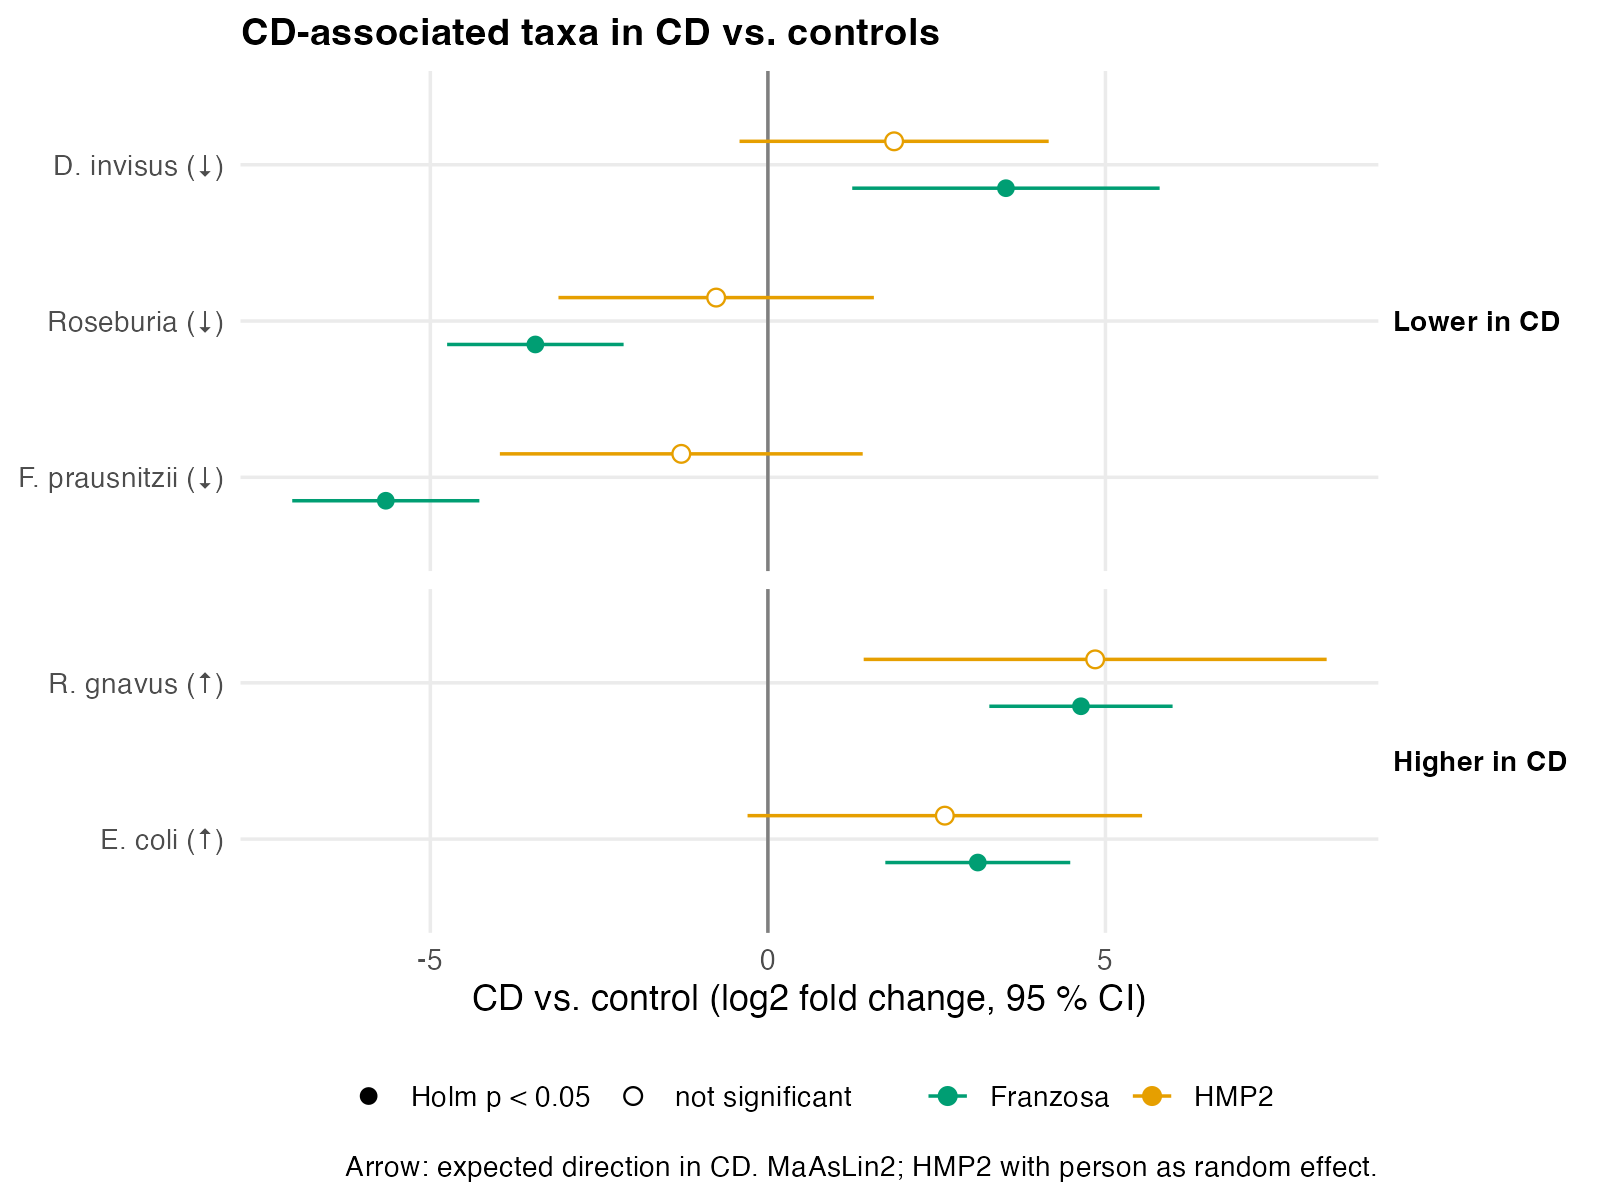
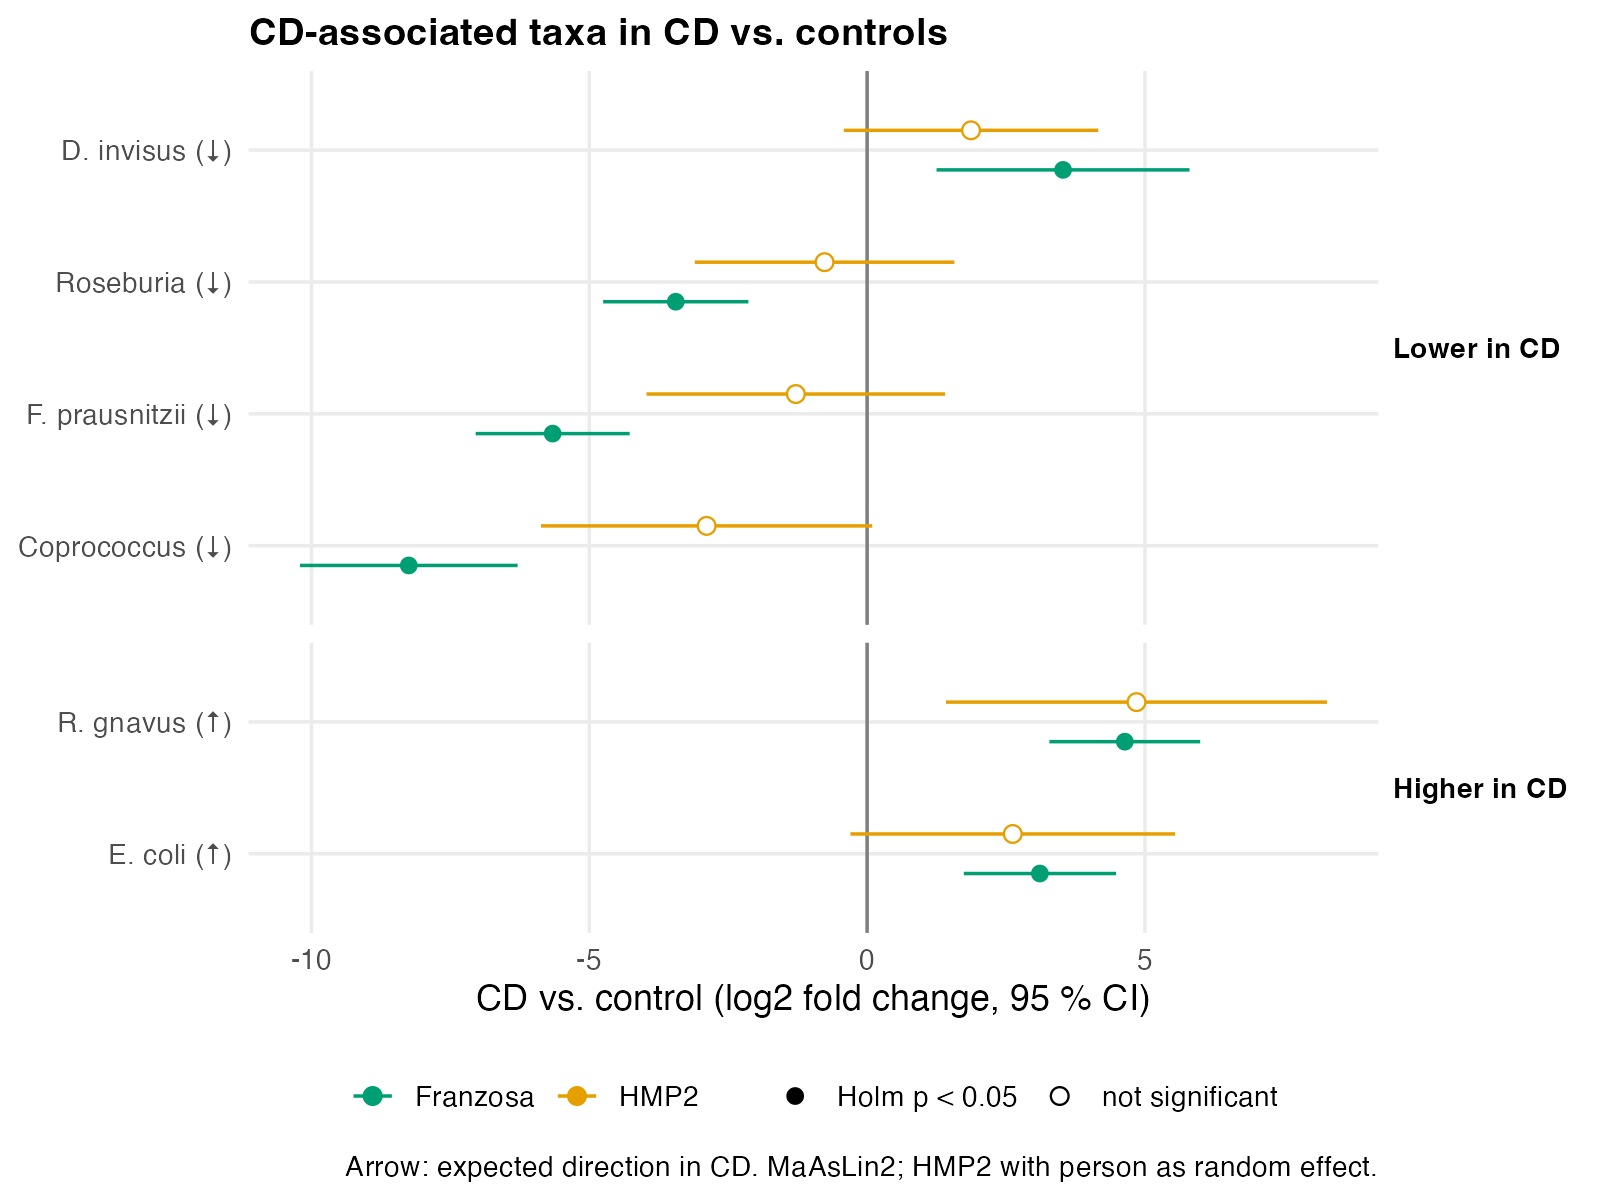
Update taxa list and literature

diff --git a/docs/methods.md b/docs/methods.md
@@ -485,10 +485,10 @@ As of 2026-10-28, genus level, main analysis (10 % prevalence filter).
 
 ### 11.7 Plant/animal taxa ratio (David 2014)
 - **Rule:** second H2a measure: log10 [(Roseburia + E. rectale + R. bromii) / (Alistipes + Bilophila + Bacteroides)] on all samples; Roseburia, Alistipes, Bilophila and Bacteroides as genus. Zeros replaced as for the MD-index (10.3), sensitivity with a value 10 times smaller. Tests as in 1.11; without antibiotics in Franzosa only (7.6).
-- **Why:** Prevotella/Bacteroides can only be tested as ratio in samples with both taxa (Franzosa 54 of 144, 11.2), which costs power. The six taxa changed in opposite directions under a plant-based vs. animal-based diet in the same controlled study (David 2014), and are rarely zero (zeros in plant / animal part: Franzosa 1 / 2 of 144 samples, HMP2 34 / 23 of 571). A log-ratio between taxa does not depend on the total microbial load (Morton 2019). Prevotella/Bacteroides stays the main H2a measure as a marker of long-term diet (Wu 2011; Hjorth 2018).
+- **Why:** Prevotella/Bacteroides can only be tested as ratio in samples with both taxa (Franzosa 54 of 144, 11.2), which costs power. The six taxa changed in opposite directions under a plant-based vs. animal-based diet in the same controlled study (David 2014), and are rarely zero (zeros in plant / animal part: Franzosa 1 / 2 of 144 samples, HMP2 34 / 23 of 571). A log-ratio between taxa does not depend on the total microbial load (Morton 2019). Prevotella/Bacteroides stays the main H2a measure: it separates long-term carbohydrate from protein/animal-fat diets (Wu 2011), and a high ratio predicts a larger response to a high-fibre diet (Hjorth 2019).
 - **Not used:** Firmicutes/Bacteroidetes, because it is not diet-specific and disputed as a marker (Magne 2020; Wei 2021).
 - **Note:** all six taxa are also in the list of 12.1; chosen before looking at the ratio results.
-- **Source:** David 2014; Morton 2019; Hjorth 2018; Magne 2020; Wei 2021.
+- **Source:** David 2014; Morton 2019; Hjorth 2019; Magne 2020; Wei 2021.
 - **Changes:** 2026-11-23: added after the week 8 meeting (slide 9).
 
 ---
@@ -498,11 +498,12 @@ As of 2026-10-28, genus level, main analysis (10 % prevalence filter).
 ### 12.1 Literature list
 - **Rule:** 17 taxa linked to diet in studies of healthy people (fibre/plant or animal/fat) or reported as changed in CD/IBD, present in both cohorts. A taxon can have both links. Tested like H2b (11.3; person as random effect in HMP2; no prevalence filter, 11.1); Roseburia, Coprococcus, Prevotella, Bacteroides and Alistipes as genus, as in section 11. Holm correction over the 17 taxa per cohort. Expected direction for the diet taxa: lower (fibre/plant) or higher (animal/fat) in CD, if CD patients eat less fibre (diet proxy, see 0). Two forest plots (diet, CD) show only taxa with Holm p < 0.05 in at least one cohort; all results are in the CSV. Exploratory, because the list was chosen after the week 8 meeting.
 - **Why:** the top-6 tables show which taxa are common, not which differ, and give no test.
-- **Source:** diet: Wu 2011; De Filippo 2010; David 2014; Walker 2011; Ze 2012; Ramirez-Farias 2009; Louis & Flint 2017. CD: Sokol 2008; Joossens 2011; Darfeuille-Michaud 2004; Gevers 2014; Png 2010; Lloyd-Price 2019.
+- **Source:** diet: Wu 2011; De Filippo 2010; David 2014; Walker 2011; Ze 2012; Ramirez-Farias 2009; Duncan 2007; Vandeputte 2017 (Anaerostipes); Benítez-Páez 2019 (E. hallii). CD: Sokol 2008; Joossens 2011; Darfeuille-Michaud 2004; Gevers 2014; Png 2010; Lloyd-Price 2019.
 - **Note:** B. wadsworthia is also linked to colitis (milk fat in mice), but only listed under diet. The coefficients of the H2b taxa are the same as in 11.3 and 11.6; only the Holm values differ.
 - **Note:** Gevers 2014 report R. gnavus lower in CD in 43 stool metagenomes (text; not significant in Table S2F), against the expected direction.
-- **Open:** full-text check of the expected direction per taxon.
-- **Changes:** 2026-11-19: added; replaces the top-6 table of the week 8 slides.
+- **Note:** Coprococcus is listed under CD only (lower in CD biopsies and stool metagenomes, Gevers 2014), not under diet: no study found where it rises with fibre, and inulin lowered it in people with high habitual fibre intake (Healey 2018). It stays in H2b as a butyrate producer (11.6).
+- **Checked:** expected directions checked in abstracts and, where open access, full texts (2026-11-23). Well supported: F. prausnitzii, Roseburia, E. rectale, R. bromii, B. adolescentis, Prevotella, Bacteroides, Alistipes, B. wadsworthia, F. nucleatum, E. hallii (Benítez-Páez 2019). Weaker: A. hadrus (fibre effect shown for the genus Anaerostipes only, Vandeputte 2017); D. invisus (Joossens 2011 only, p = 0.04); R. gnavus (Gevers 2014 report it lower in stool); E. coli and A. muciniphila are mucosal findings (Darfeuille-Michaud 2004; Png 2010), not stool.
+- **Changes:** 2026-11-19: added; replaces the top-6 table of the week 8 slides. 2026-11-23: Coprococcus moved from diet to CD; diet sources for A. hadrus and E. hallii added.
 
 ---
 
@@ -532,6 +533,7 @@ As of 2026-10-28, genus level, main analysis (10 % prevalence filter).
 - Arnold BF et al. (2011). Simulation methods to estimate design power: an overview for applied research. BMC Med Res Methodol 11:94. doi:10.1186/1471-2288-11-94
 - Bates D et al. (2015). Fitting linear mixed-effects models using lme4. J Stat Softw 67(1). doi:10.18637/jss.v067.i01
 - Beghini F et al. (2021). Integrating taxonomic, functional, and strain-level profiling of diverse microbial communities with bioBakery 3. eLife 10:e65088. doi:10.7554/eLife.65088
+- Benítez-Páez A et al. (2019). A multi-omics approach to unraveling the microbiome-mediated effects of arabinoxylan oligosaccharides in overweight humans. mSystems 4(4):e00209-19. doi:10.1128/msystems.00209-19
 - Bray JR, Curtis JT (1957). An ordination of the upland forest communities of southern Wisconsin. Ecol Monogr 27(4):325-349. doi:10.2307/1942268
 - Cao Q et al. (2021). Effects of rare microbiome taxa filtering on statistical analysis. Front Microbiol 11:607325. doi:10.3389/fmicb.2020.607325
 - Cattonaro F et al. (2020). Do you cov me? Effect of coverage reduction on metagenome shotgun sequencing studies. F1000Res 7:1767. doi:10.12688/f1000research.16804.4
@@ -547,8 +549,9 @@ As of 2026-10-28, genus level, main analysis (10 % prevalence filter).
 - Gurland J, Tripathi RC (1971). A simple approximation for unbiased estimation of the standard deviation. Am Stat 25(4):30-32. doi:10.1080/00031305.1971.10477279
 - Hall AB et al. (2017). A novel Ruminococcus gnavus clade enriched in inflammatory bowel disease patients. Genome Med 9:103. doi:10.1186/s13073-017-0490-5
 - Harvey RF, Bradshaw JM (1980). A simple index of Crohn's-disease activity. Lancet 315(8167):514. doi:10.1016/s0140-6736(80)92767-1
+- Healey G et al. (2018). Habitual dietary fibre intake influences gut microbiota response to an inulin-type fructan prebiotic: a randomised, double-blind, placebo-controlled, cross-over, human intervention study. Br J Nutr 119(2):176-189. doi:10.1017/s0007114517003440
 - Hillmann B et al. (2018). Evaluating the information content of shallow shotgun metagenomics. mSystems 3(6):e00069-18. doi:10.1128/msystems.00069-18
-- Hjorth MF et al. (2018). Prevotella-to-Bacteroides ratio predicts body weight and fat loss success on 24-week diets varying in macronutrient composition and dietary fiber: results from a post-hoc analysis. Int J Obes 43:149-157. doi:10.1038/s41366-018-0093-2
+- Hjorth MF et al. (2019). Prevotella-to-Bacteroides ratio predicts body weight and fat loss success on 24-week diets varying in macronutrient composition and dietary fiber: results from a post-hoc analysis. Int J Obes 43(1):149-157. doi:10.1038/s41366-018-0093-2
 - Hodges JL, Lehmann EL (1963). Estimates of location based on rank tests. Ann Math Stat 34(2):598-611. doi:10.1214/aoms/1177704172
 - Johnson WE et al. (2007). Adjusting batch effects in microarray expression data using empirical Bayes methods. Biostatistics 8(1):118-127. doi:10.1093/biostatistics/kxj037
 - Joossens M et al. (2011). Dysbiosis of the faecal microbiota in patients with Crohn's disease and their unaffected relatives. Gut 60(5):631-637. doi:10.1136/gut.2010.223263
@@ -583,6 +586,7 @@ As of 2026-10-28, genus level, main analysis (10 % prevalence filter).
 - Sokol H et al. (2008). Faecalibacterium prausnitzii is an anti-inflammatory commensal bacterium identified by gut microbiota analysis of Crohn disease patients. Proc Natl Acad Sci USA 105(43):16731-16736. doi:10.1073/pnas.0804812105
 - Truong DT et al. (2015). MetaPhlAn2 for enhanced metagenomic taxonomic profiling. Nat Methods 12(10):902-903. doi:10.1038/nmeth.3589
 - Tukey JW (1977). Exploratory data analysis. Addison-Wesley.
+- Vandeputte D et al. (2017). Prebiotic inulin-type fructans induce specific changes in the human gut microbiota. Gut 66(11):1968-1974. doi:10.1136/gutjnl-2016-313271
 - Vandeputte D et al. (2021). Temporal variability in quantitative human gut microbiome profiles and implications for clinical research. Nat Commun 12:6740. doi:10.1038/s41467-021-27098-7
 - Vermeire S et al. (2010). Correlation between the Crohn's disease activity and Harvey-Bradshaw indices in assessing Crohn's disease severity. Clin Gastroenterol Hepatol 8(4):357-363. doi:10.1016/j.cgh.2010.01.001
 - Vital M et al. (2014). Revealing the bacterial butyrate synthesis pathways by analyzing (meta)genomic data. mBio 5(2):e00889-14. doi:10.1128/mbio.00889-14
